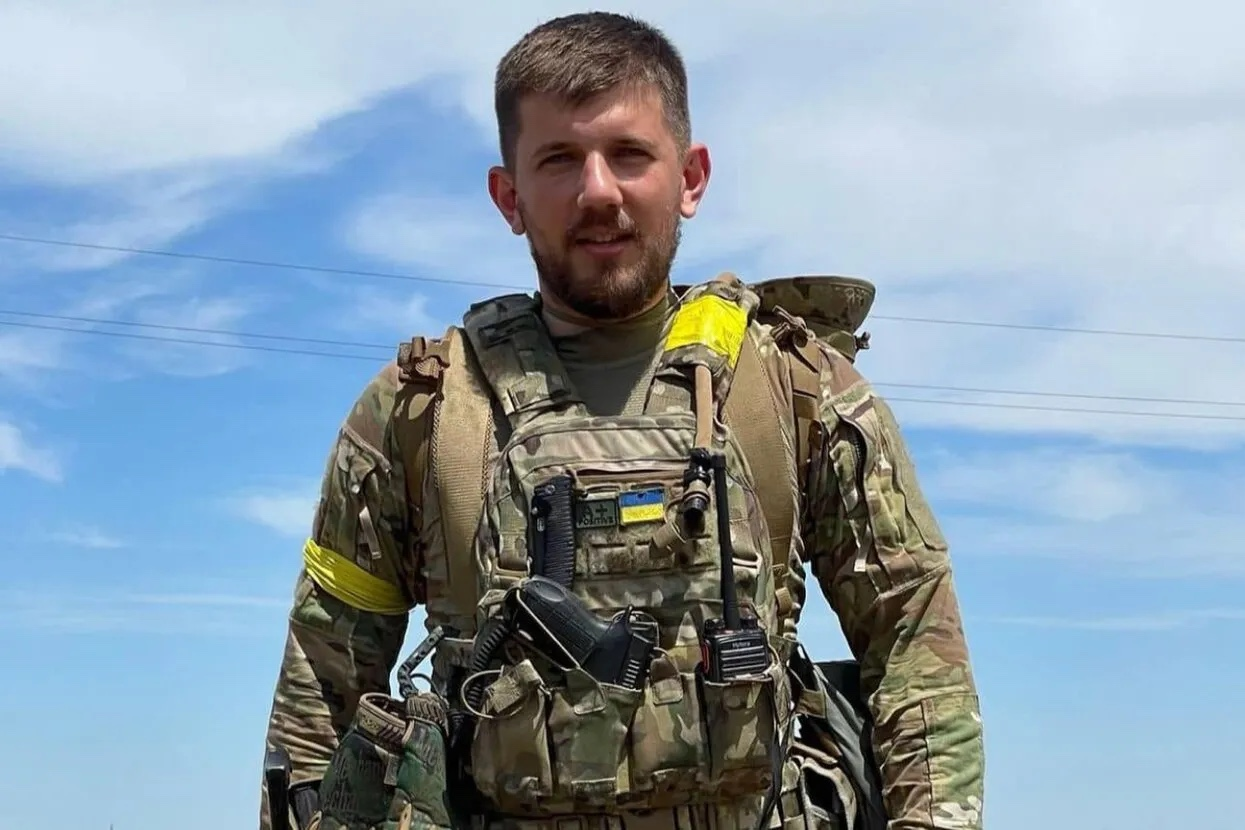
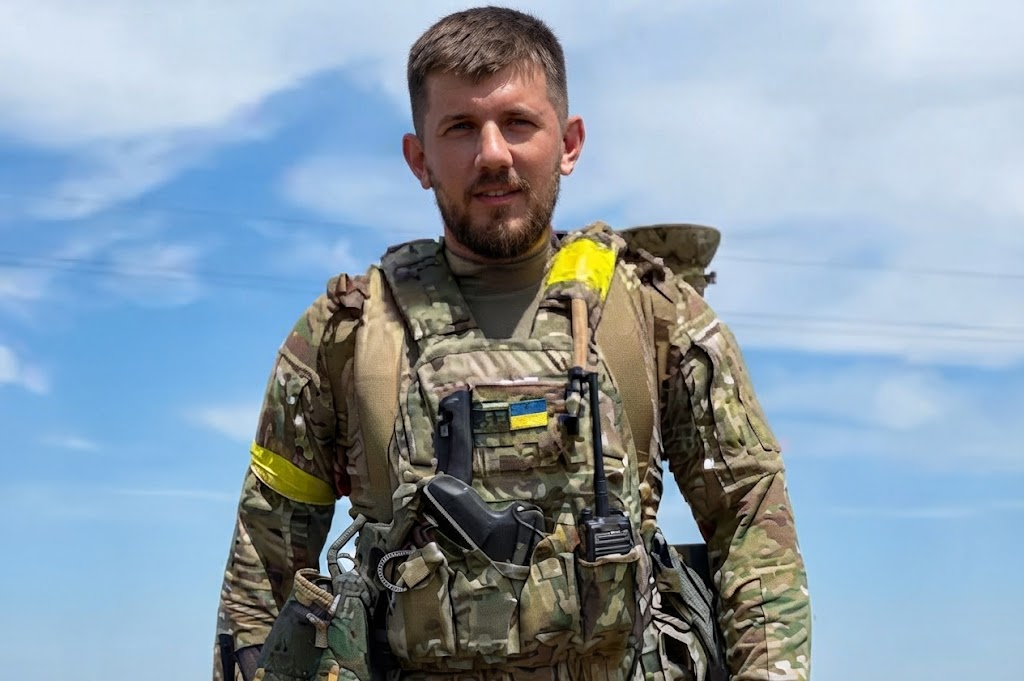
Fair-use portraits for Svitlychnyi and Vinhranovskyi; sharper Zubkov photo; AI-restored Petrychenko photo

Changed region(s): [[0.1875, 0.0, 0.8125, 1.0], [0.375, 0.1542, 0.4062, 0.2467]]

diff --git a/src/content/people/uk/mykola-vinhranovskyi.md b/src/content/people/uk/mykola-vinhranovskyi.md
@@ -11,6 +11,14 @@ role: "Поет-шістдесятник, учень Довженка"
 summary: "Олександр Довженко забрав юного студента з Києва до Москви й обрав на головну роль у своєму фільмі. Микола Вінграновський став кіноактором і режисером, одним із провідних поетів-шістдесятників, а за книжки для дітей отримав Шевченківську премію."
 fun_fact: "Довженко ввів юного Вінграновського до свого дому й допомагав йому грошима, тож у Москві навіть ширилися чутки, що той - син режисера."
 birthplace: { name: "Богопіль (нині в межах Первомайська)", region: mykolaiv, country: UA, lat: 48.044, lon: 30.850 }
+image:
+  src: ./images/mykola-vinhranovskyi.jpg
+  alt: "Микола Вінграновський біля кінокамери, чорно-біле фото"
+  position: "50% 25%"
+  author: "Невідомий автор"
+  license: "Fair use"
+  fair_use: true
+  source_url: "https://uk.wikipedia.org/wiki/Файл:Vingran.jpg"
 key_accomplishments:
   - "Головна роль у фільмі Олександра Довженка «Повість полум'яних літ» (режисерка Юлія Солнцева, 1961)"
   - "Перша збірка «Атомні прелюди» (1962), згодом «Сто поезій» (1967), «На срібнім березі» (1978)"

diff --git a/src/content/people/uk/ivan-svitlychnyi.md b/src/content/people/uk/ivan-svitlychnyi.md
@@ -15,11 +15,12 @@ places:
   - { name: "Київ", lat: 50.45, lon: 30.523, note: "квартира на Уманській, 35, місце зустрічей шістдесятників; місце смерті" }
 image:
   src: ./images/ivan-svitlychnyi.jpg
-  alt: "Поштова марка «Шістдесятники. Іван Світличний (1929–1992)», 2019"
-  position: "65% 40%"
-  author: "ukrposhta"
-  license: "Public domain (PD-UA-exempt, stamps)"
-  source_url: "https://commons.wikimedia.org/wiki/File:Shistdesyatnyky_-_Ivan_Svitlichny_Stamps_of_Ukraine_2019.jpg"
+  alt: "Іван Світличний у профіль, чорно-біле фото"
+  position: "50% 30%"
+  author: "Невідомий автор"
+  license: "Fair use"
+  fair_use: true
+  source_url: "https://uk.wikipedia.org/wiki/Файл:Світличний_Іван.jpg"
 key_accomplishments:
   - "Квартира на Уманській, 35 - неофіційний Клуб творчої молоді шістдесятників; один із засновників Клубу творчої молоді в Києві"
   - "Критичні статті, книжка «Художній метод» (1962); переклади з французької, чеської, польської; переклад «Слова о полку Ігоревім»"

diff --git a/src/content/people/en/ivan-svitlychnyi.md b/src/content/people/en/ivan-svitlychnyi.md
@@ -10,7 +10,7 @@ key_accomplishments:
   - "The poetry collection A Heart for Bullets and Rhymes (1990)"
   - "Posthumously awarded the Shevchenko National Prize (1994)"
 birthplace_name: "Polovynkyne (now Tolokivka)"
-image_alt: "Postage stamp “The Sixtiers. Ivan Svitlychnyi (1929–1992)”, 2019"
+image_alt: "Ivan Svitlychnyi in profile, black-and-white photo"
 quotes:
   - text: "The most despotic of rulers / Is Poetry, your freedom."
     source: "Poem “Poetry”; quoted in Dzerkalo Tyzhnia, 2019"

diff --git a/src/content/people/uk/pavlo-petrychenko.md b/src/content/people/uk/pavlo-petrychenko.md
@@ -14,7 +14,8 @@ birthplace: { name: "Київ", region: kyiv-city, country: UA, lat: 50.45, lon:
 image:
   src: ./images/pavlo-petrychenko.jpg
   alt: "Павло Петриченко у військовому спорядженні з жовтою пов'язкою на тлі неба"
-  position: "50% 15%"
+  position: "48% 15%"
+  ai_edit: restored
   author: "Невідомий автор (через Платформу пам'яті «Меморіал»)"
   license: "Fair use"
   fair_use: true

diff --git a/src/content/people/en/mykola-vinhranovskyi.md b/src/content/people/en/mykola-vinhranovskyi.md
@@ -14,6 +14,7 @@ birthplace_name: "Bohopil (now part of Pervomaisk)"
 quotes:
   - text: "If my people are counted formally, / Then I am truly a true formalist!"
     source: "Poem in reply to charges of formalism; quoted by Chytomo, 2023"
+image_alt: "Mykola Vinhranovskyi beside a film camera, black-and-white photo"
 ---
 
 ## A year with Dovzhenko
